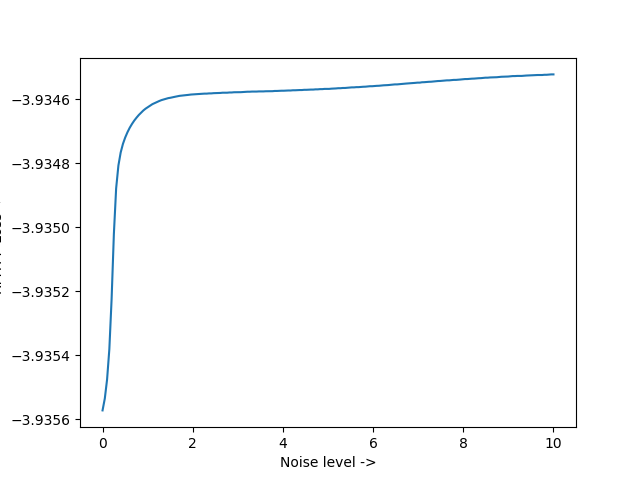
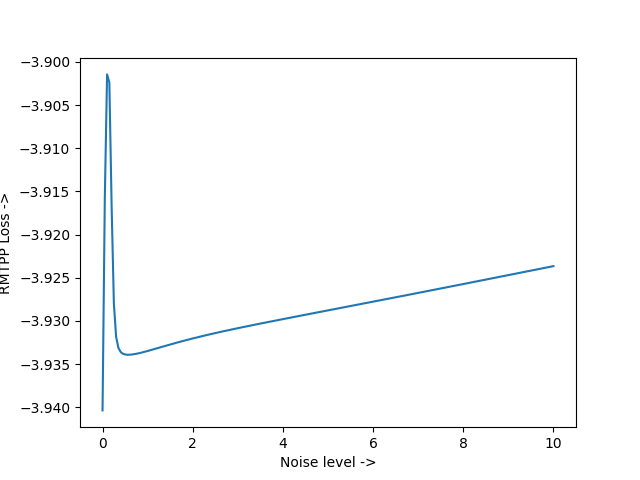
loss with noise at 1st element

diff --git a/noise.py b/noise.py
@@ -78,7 +78,8 @@ def evaluate_noise_loss():
             #print("batch[0] shape := ", len(batch[0]))
             #print("batch[0][0] shape := ", len(batch[0][0]))
             #batch[0][0][0] += z
-            batch[0][0] += z
+            #batch[0][0] += z
+            batch[0][:][0] +=z
             time_tensor, event_tensor = batch
             time_input, time_target = model.dispatch([time_tensor[:, :-1], time_tensor[:, -1]])
             event_input, event_target = model.dispatch([event_tensor[:, :-1], event_tensor[:, -1]])
@@ -261,6 +262,6 @@ if __name__=="__main__":
         evaluate()
 
     #evaluate_noise()
-    #evaluate_noise_loss()
+    evaluate_noise_loss()
     #evaluate_noise_loss_gradient()
-    evaluate_noise_loss_ipgradient()
+    #evaluate_noise_loss_ipgradient()
